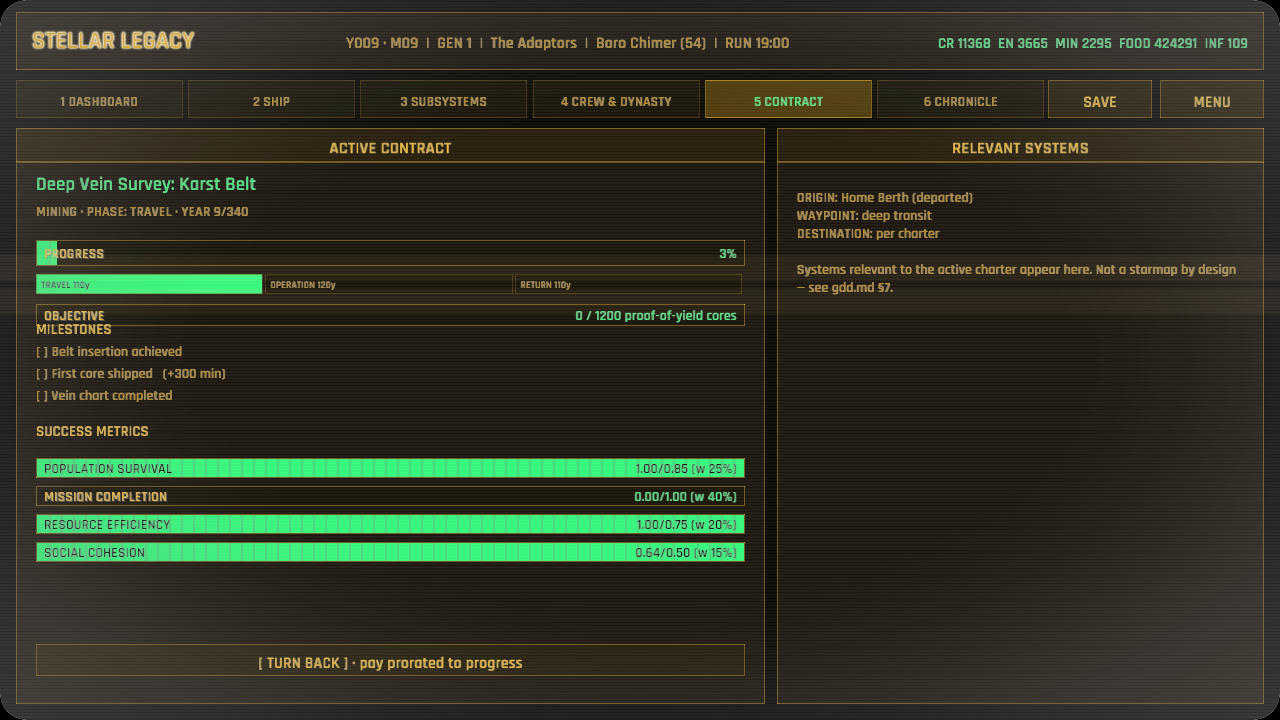
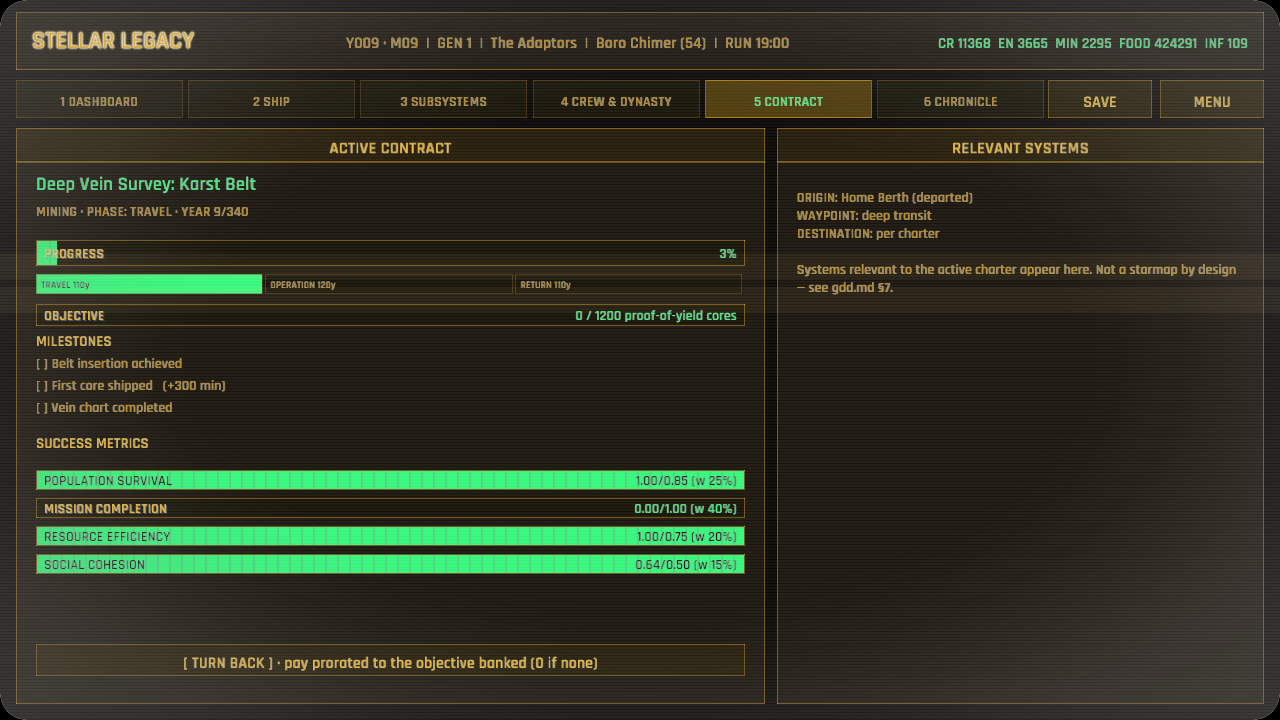
Turning back pays for the ore in the hold, not the miles flown (GDD 5.2 <-> 5.1)
The active-charter panel called the turn-back payout "prorated to progress" while
the PROGRESS bar reads the clock — so a ship 3% into the voyage but with nothing
yet mined looked owed 3%, when the rule (already enforced in the sim) pays strictly
by objective completion: prorate to the work banked, and nothing at all if the job
was never started. The button now says so — "pay prorated to the objective banked
(0 if none)" — and the turn-back notice matches.

Also unstacks the MILESTONES header from the OBJECTIVE gauge: the header sits on
its text baseline, so the tight gap let its ascenders ride up into the gauge box;
it now clears the bar cleanly.

Data-driven and deterministic: the payout math is unchanged — this only corrects
the wording that misdescribed it and the spacing that overlapped. Clippy clean; all
347 tests pass, including the abort-pays-by-objective coverage
(an_abort_in_travel_pays_nothing, a_truncated_mission_pays_proportional_to_the_objective).

347 tests pass, determinism preserved.

Changed region(s): [[0.0312, 0.4278, 0.5938, 0.7944], [0.1562, 0.9167, 0.4688, 0.9472]]

diff --git a/src/ui/contract_systems.rs b/src/ui/contract_systems.rs
@@ -145,7 +145,9 @@ fn draw_active(ctx: &GameplayCtx<'_>, area: Rect, mouse: Vec2, actions: &mut Vec
             contract.objective_progress, contract.objective_target, contract.objective_unit
         ),
     );
-    y += 30.0;
+    // Clear the objective bar before the milestone list: a section header sits on
+    // its baseline, so a tight gap let its ascenders overlap the bar's box.
+    y += 42.0;
 
     draw_ui_text_ex(
         "MILESTONES",
@@ -204,7 +206,7 @@ fn draw_active(ctx: &GameplayCtx<'_>, area: Rect, mouse: Vec2, actions: &mut Vec
     if underway {
         if term_button(
             abort,
-            "[ TURN BACK ]  ·  pay prorated to progress",
+            "[ TURN BACK ]  ·  pay prorated to the objective banked (0 if none)",
             true,
             mouse,
         ) {

diff --git a/src/game/actions.rs b/src/game/actions.rs
@@ -159,7 +159,7 @@ impl Game {
                     if contract::jump_to_return(sim) {
                         sim.push_log("The council votes to turn back.");
                         self.notifications
-                            .warning("Turning for home — pay will be prorated.");
+                            .warning("Turning for home — pay prorated to the objective banked.");
                     }
                 }
                 None
